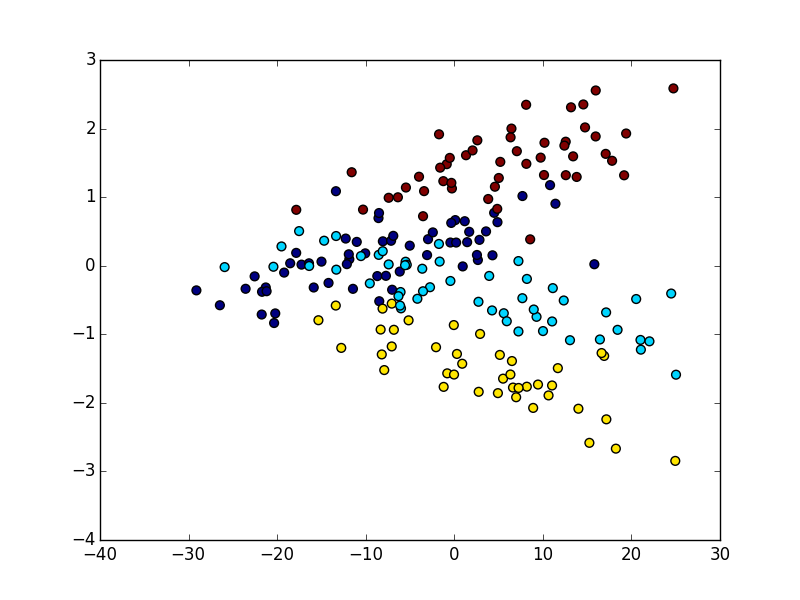
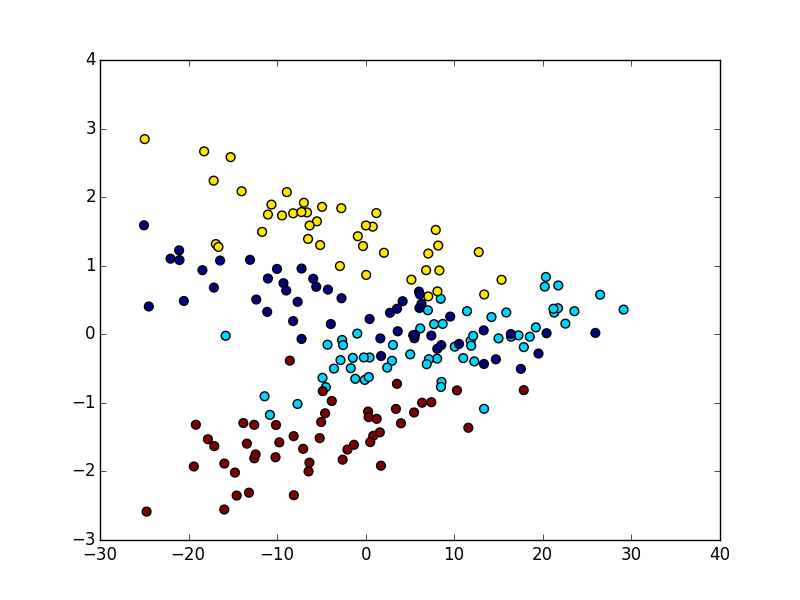
Use blas function
- Use dsyrk function when appropriate (mainly for covariance
  estimation)
- Detect bug when n<d for the covariance estimation. X was scaled
  and the sp.dot(X.T,q[:,i]) was wrong later in the fit_update function

diff --git a/hdda.py b/hdda.py
@@ -2,12 +2,13 @@
 import scipy as sp
 from scipy import linalg
 from sklearn.cluster import KMeans
+from scipy.linalg.blas import dsyrk
 
 # TODO: clean the output of predict when out=proba, add the posterior probabilities
 # TODO: Work on ni rather than n for selected the number of eigenvalues -> needs to re-define check for the values of pi
 # TODO: Work on return values for checking errors
 # TODO: Check the prediction part
-# TODO: use blas function to compute the covariance matrices
+# TODO: Simplify the computation of the posterior
 
 ## Numerical precision - Some constant
 EPS = sp.finfo(sp.float64).eps
@@ -190,11 +191,11 @@ class HDGMM():
             
         ## Compute the whole covariance matrix
         if self.model in ('M2','M4','M6','M8'):
-            X = (x - sp.mean(x,axis=0))/sp.sqrt(float(n))
-            if n >= d:
-                self.W = sp.dot(X.T,X)
+            X = (x - sp.mean(x,axis=0))
+            if n >= d: # Here use dsyrk to take benefit of the product matrices X^{t}X or XX^{t}
+                self.W = dsyrk(1.0/n,X.T,trans=False) # Transpose to put in fortran order
             else:
-                self.W = sp.dot(X,X.T)
+                self.W = dsyrk(1.0/n,X.T,trans=True) # Transpose to put in fortran order
             X = None
         
         ## Learn the empirical of the model for each class
@@ -204,22 +205,22 @@ class HDGMM():
                 self.ni.append(j.size)
                 self.prop.append(float(self.ni[c])/n)
                 self.mean.append(sp.mean(x[j,:],axis=0))
-                X = (x[j,:]-self.mean[c])/sp.sqrt(float(self.ni[c]))
+                X = (x[j,:]-self.mean[c])
 
             else: # Unsupervised case
                 self.ni.append(y[:,c].sum())
                 self.prop.append(float(self.ni[c])/n)
                 self.mean.append(sp.average(x,weights=y[:,c],axis=0))
-                X = (x-self.mean[c])*sp.sqrt(y[:,c]).reshape(n,1)/sp.sqrt(self.ni[c])
+                X = (x-self.mean[c])*sp.sqrt(y[:,c]).reshape(n,1)
 
-            if n >= d:
-                cov = sp.dot(X.T,X)
+            if n >= d: # Here use dsyrk to take benefit of the product matrices X^{t}X or XX^{t}
+                cov = dsyrk(1.0/(self.ni[c]-1),X.T,trans=False) # Transpose to put in fortran order
             else:
-                cov = sp.dot(X,X.T)
+                cov = dsyrk(1.0/(self.ni[c]-1),X.T,trans=True) # Transpose to put in fortran order
                 self.X.append(X)
 
             X = None
-            L,Q = linalg.eigh(cov)
+            L,Q = linalg.eigh(cov,lower=False) # Only the upper part of cov is initialize -> dsyrk
             idx = L.argsort()[::-1]
             L,Q = L[idx],Q[:,idx]
             L[L<EPS]=EPS # Chek for numerical errors
@@ -336,8 +337,8 @@ class HDGMM():
             # Remove the mean
             xtc = xt-self.mean[c]
             # Do the projection
-            Px = sp.dot(xtc,sp.dot(self.Q[c],self.Q[c].T))
-            temp = sp.dot(Px,self.Q[c]/sp.sqrt(self.a[c]))
+            Px = sp.dot(xtc,sp.dot(self.Q[c],self.Q[c].T)) ## BLAS
+            temp = sp.dot(Px,self.Q[c]/sp.sqrt(self.a[c])) ## BLAS
             K[:,c] += sp.sum(temp**2,axis=1)
             K[:,c] += sp.sum((xtc - Px)**2,axis=1)/self.b[c]
             
@@ -422,7 +423,7 @@ class HDGMM():
     
     def posterior(self,K=None,T=None):
         """Compute the posterior probability given the membership function
-        :param k: A n \times c matrix containing the decision function (obtained with predict)
+        :param K: A n \times c matrix containing the decision function (obtained with predict)
         """
         if K == None and T == None:
             print "At least one of K or T should be not None"
